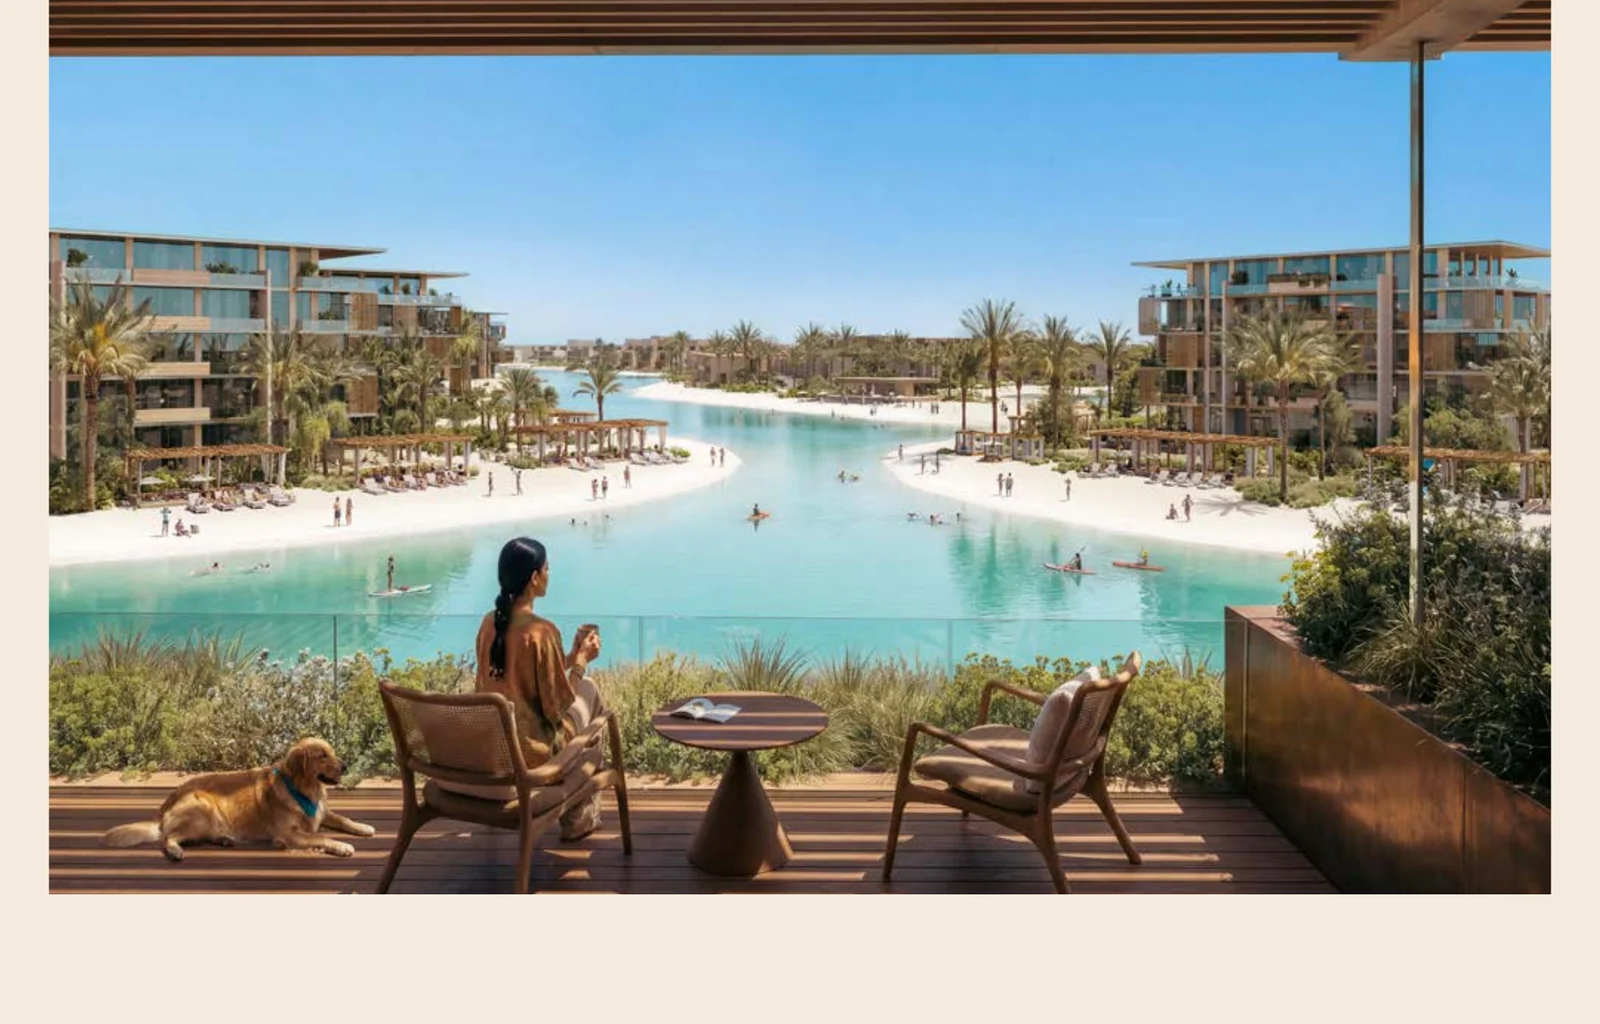
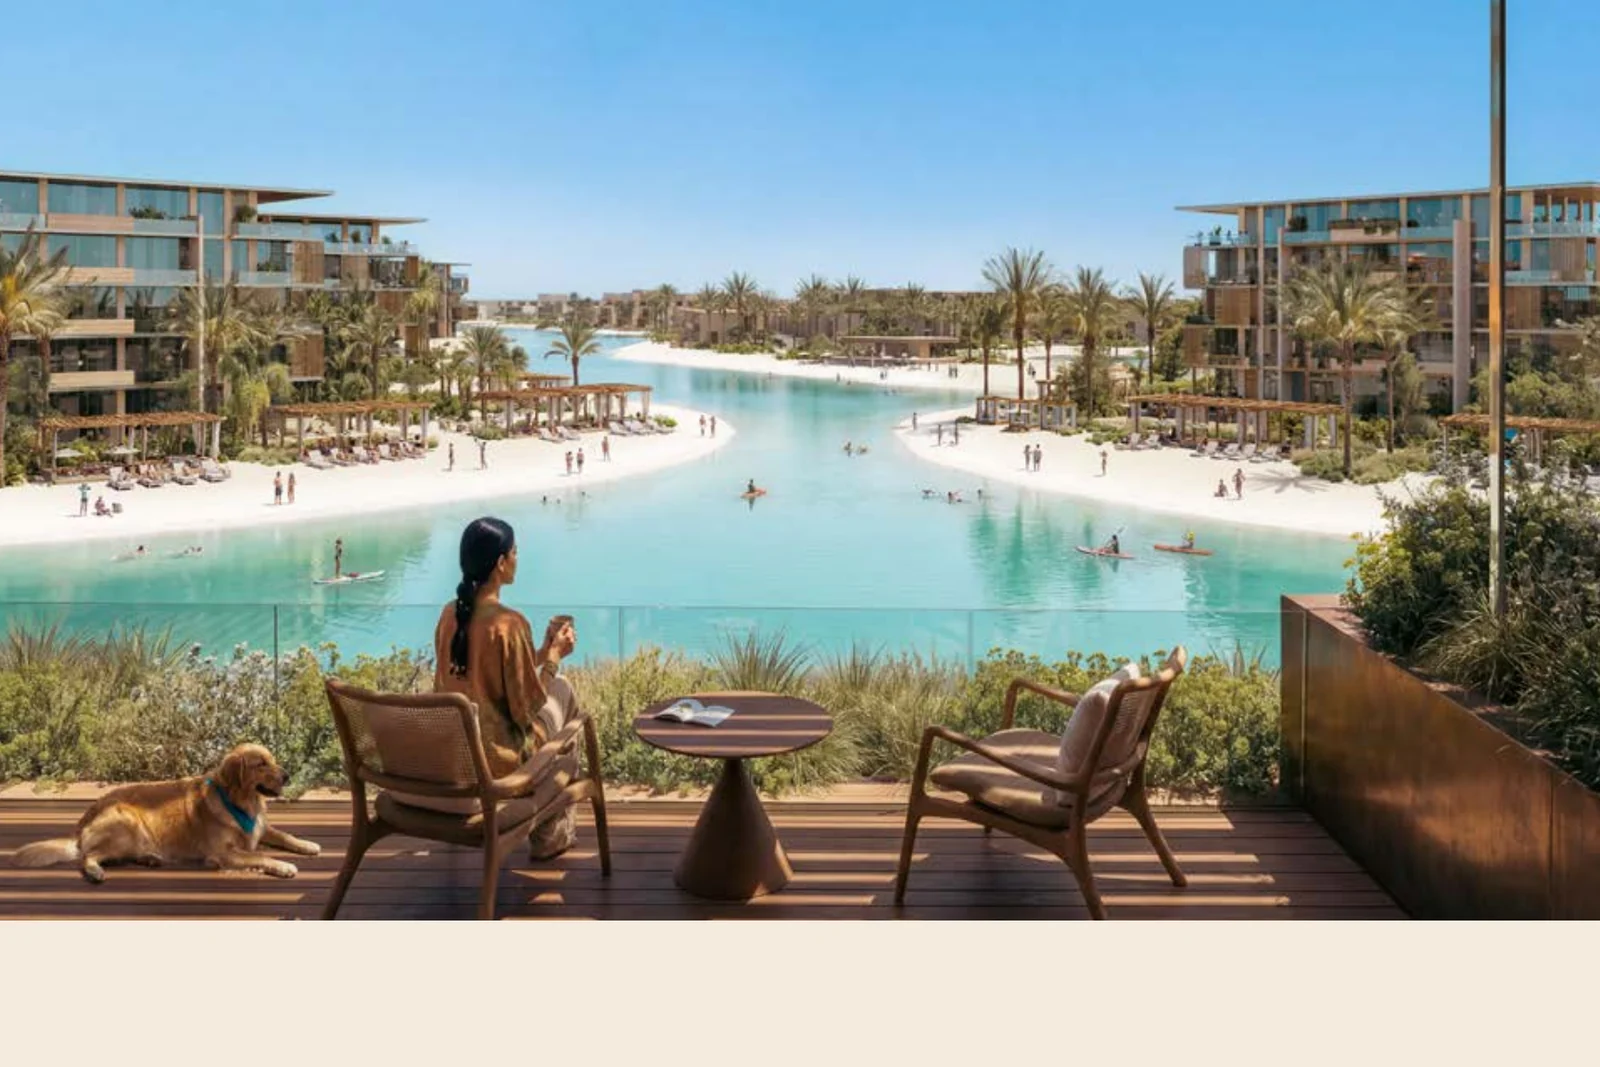
Level the Alam Al Roum cards, and drop the PDF download
The cards were ragged because two things sized their media differently: a
card with several photos is locked to 3:2 by .dev-feat__flip, while a card
with one photo lets the image keep its own shape. The brochure crops ranged
from 9:16 full pages to 2:1 bands, so a single-photo card could stand three
times the height of the flipper beside it.

Fixed at the source rather than in CSS: every Alam Al Roum card image is now
cut to 3:2, so both kinds of card render the same box and no other
developer's imagery is touched. Their single-photo cards run 0.92 to 2.43 —
a global aspect rule would have cropped them.

The four crops taken off mixed pages had the brochure's paper margin in
them; the margin is now found by looking for the rows and columns that are
mostly paper rather than by guessing a fraction.

Every card's media measures 3:2 in both languages, desktop and mobile.

Claude-Session: https://claude.ai/code/session_01TtpEY1i8qj8TUCBgEYhdY4

diff --git a/src/tpl_script2b.html b/src/tpl_script2b.html
@@ -2351,15 +2351,13 @@
       h('span',null, (lang==='ar' ? 'تصفّح البروشور' : 'Read the brochure') + ' · ' + num(n) +
                      (lang==='ar' ? ' صفحة' : ' pages')));
     open.addEventListener('click', function(){ mediaViewer(items, nm+' · '+label, 0); });
-    var dl = h('a',{class:'ufeat', href:b.file, target:'_blank', rel:'noopener'},
-      ic('arrow','ufeat__ic'), h('span',null, lang==='ar' ? 'تحميل PDF' : 'Download PDF'));
     // first page stays in the DOM for crawlers without showing on the page
     var seo = h('img',{src:b.pages[0], alt:nm+' — '+label, width:1200, height:2133,
       loading:'lazy', decoding:'async', class:'visually-hidden'});
     return h('section',{class:'section--tight band'},
       h('div',{class:'wrap'},
         h('div',{class:'sec-head'}, h('h2',{class:'dev-feat__title'}, ic('doc','dev-feat__ico'), h('span',null,label))),
-        h('div',{class:'ufeat-row'}, open, dl), seo));
+        h('div',{class:'ufeat-row'}, open), seo));
   }
 
 

diff --git a/index.html b/index.html
@@ -3357,14 +3357,12 @@ ic('doc','ufeat__ic'),
 h('span',null, (lang==='ar' ? 'تصفّح البروشور' : 'Read the brochure') + ' · ' + num(n) +
 (lang==='ar' ? ' صفحة' : ' pages')));
 open.addEventListener('click', function(){ mediaViewer(items, nm+' · '+label, 0); });
-var dl = h('a',{class:'ufeat', href:b.file, target:'_blank', rel:'noopener'},
-ic('arrow','ufeat__ic'), h('span',null, lang==='ar' ? 'تحميل PDF' : 'Download PDF'));
 var seo = h('img',{src:b.pages[0], alt:nm+' — '+label, width:1200, height:2133,
 loading:'lazy', decoding:'async', class:'visually-hidden'});
 return h('section',{class:'section--tight band'},
 h('div',{class:'wrap'},
 h('div',{class:'sec-head'}, h('h2',{class:'dev-feat__title'}, ic('doc','dev-feat__ico'), h('span',null,label))),
-h('div',{class:'ufeat-row'}, open, dl), seo));
+h('div',{class:'ufeat-row'}, open), seo));
 }
 function featImg(src, items, i, alt, w, hgt){
 var img = h('img',{src:src, alt:alt, loading:'lazy', decoding:'async', width:w, height:hgt});

diff --git a/tools/main.js b/tools/main.js
@@ -3087,14 +3087,12 @@ ic('doc','ufeat__ic'),
 h('span',null, (lang==='ar' ? 'تصفّح البروشور' : 'Read the brochure') + ' · ' + num(n) +
 (lang==='ar' ? ' صفحة' : ' pages')));
 open.addEventListener('click', function(){ mediaViewer(items, nm+' · '+label, 0); });
-var dl = h('a',{class:'ufeat', href:b.file, target:'_blank', rel:'noopener'},
-ic('arrow','ufeat__ic'), h('span',null, lang==='ar' ? 'تحميل PDF' : 'Download PDF'));
 var seo = h('img',{src:b.pages[0], alt:nm+' — '+label, width:1200, height:2133,
 loading:'lazy', decoding:'async', class:'visually-hidden'});
 return h('section',{class:'section--tight band'},
 h('div',{class:'wrap'},
 h('div',{class:'sec-head'}, h('h2',{class:'dev-feat__title'}, ic('doc','dev-feat__ico'), h('span',null,label))),
-h('div',{class:'ufeat-row'}, open, dl), seo));
+h('div',{class:'ufeat-row'}, open), seo));
 }
 function featImg(src, items, i, alt, w, hgt){
 var img = h('img',{src:src, alt:alt, loading:'lazy', decoding:'async', width:w, height:hgt});
